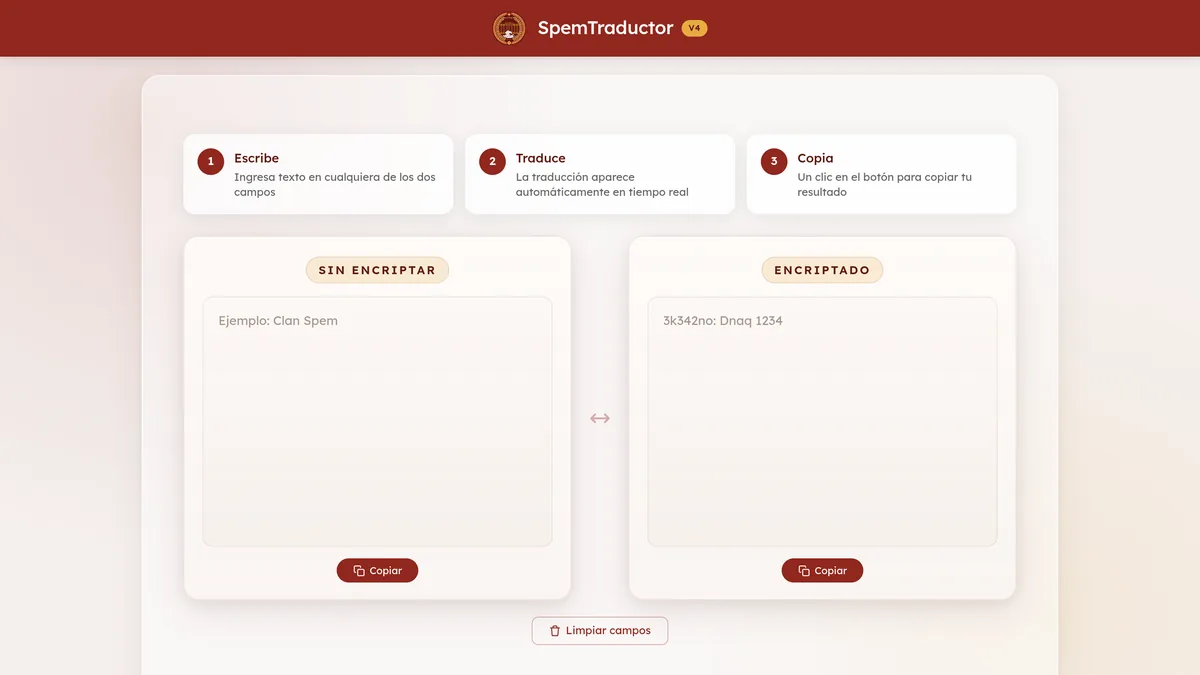
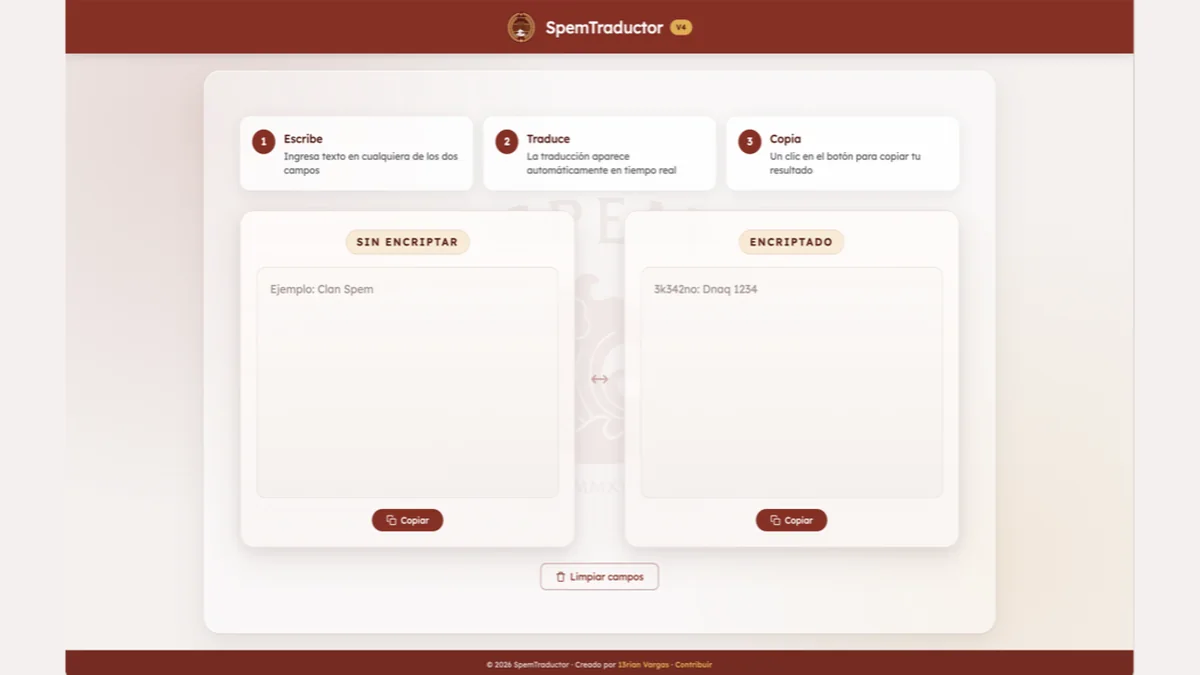
fix: apply design review feedback
Projects
- covers are real previews again: each repo's own portfolio-cover.png where
  it ships one, a live screenshot otherwise, and AMODEL uses the
  model_comparison figure from its own repo
- KApp gets a three-phone composition built from assets/screenshots, since
  it is a mobile app and a desktop shot said nothing about it
- cards laid out with centred flex, so 5 projects wrap 3 + 2 instead of the
  4 + 1 the full-width "featured" card was forcing
- order is KApp, AMODEL, K-Forge, SpemTraductor, Portfolio
- every stack is described at the same depth; AMODEL now lists the infra it
  actually ran on (Docker, Linux CLI, VPS, Tailscale)
- Kotlin and Swift were falling back to the Java icon
- icons added for Vercel, Maven, NumPy, SciPy, pandas, Matplotlib, pytest,
  Tailscale, VPS and SSH — no chip renders bare now
- the long "video" label no longer overlaps the GitHub button; it is short
  and carries a YouTube mark

Home
- intro rewritten as an introduction rather than a stack dump
- card back: QR is large and centred, and the facts read as label/value rows
  with no emoji
- "AUTHORIZED PERSONNEL" tested as confusing, replaced with the site domain
- hover lightens the amber instead of darkening it
- nav pill was measured before the webfont swapped in, so it sat off to the
  side; it re-measures on fonts.ready

About
- portrait is a circle at native resolution; the 3:4 frame forced a 1.3x
  upscale purely to hide the circular cut-out's transparent corners
[…]

diff --git a/src/i18n/ui.ts b/src/i18n/ui.ts
@@ -27,7 +27,7 @@ export const ui = {
         "home.name": "Brian Vargas",
         "home.role": "Java Backend Developer | Full Stack",
         "home.tagline":
-            "Java 21 and Spring Boot microservices behind an API Gateway, REST APIs and relational models that survive production — plus CCNA networking and CCST cybersecurity foundations. Open to backend, full stack, DevOps and security roles.",
+            "Hi, I'm Brian. I got hooked on figuring out how things work underneath, which is how I ended up in backend — building systems that still stand up when real people use them. Lately I've been going deep on cybersecurity and cloud. I'm looking for a team where there's always something left to learn.",
         "home.ctaProjects": "View projects",
         "home.ctaCV": "Download CV",
         "home.scrollHint": "Scroll",
@@ -38,7 +38,7 @@ export const ui = {
         "home.workModeValue": "On-site / Remote",
         "home.badgeText": "VERIFIED",
         "home.issueDate": "Issued: 2026",
-        "home.securityText": "AUTHORIZED PERSONNEL",
+        "home.securityText": "13rian-vargas.vercel.app",
         "home.qrInstruction": "Scan this QR to share this portfolio",
         "home.shareQR": "Share",
         "home.downloadQR": "Download",
@@ -56,6 +56,8 @@ export const ui = {
         "aboutme.description":
             "I'm a software developer with 3+ years building applications, focused on Java and Spring Boot on the backend and full stack capable with Angular and TypeScript. I design REST APIs, model relational databases and deploy with Docker. My profile is hybrid: I bring networking (CCNA) and cybersecurity (CCST) foundations alongside cloud (Google Cloud).",
         "aboutme.downloadCV": "Download CV",
+        "aboutme.cvEs": "Spanish",
+        "aboutme.cvEn": "English",
         "aboutme.softSkills": "Soft Skills",
         "aboutme.experience": "Years of Experience",
         "aboutme.technologies": "Technologies",
@@ -210,7 +212,7 @@ export const ui = {
         "home.name": "Brian Vargas",
         "home.role": "Desarrollador Java Backend | Full Stack",
         "home.tagline":
-            "Microservicios en Java 21 y Spring Boot tras un API Gateway, APIs REST y modelos relacionales que aguantan producción — más fundamentos de redes (CCNA) y ciberseguridad (CCST). Abierto a backend, full stack, DevOps y seguridad.",
+            "Hola, soy Brian. Me picó la curiosidad de entender cómo funcionan las cosas por dentro y terminé en el backend — armando sistemas que siguen en pie cuando la gente de verdad los usa. Últimamente me metí de lleno en ciberseguridad y cloud. Busco un equipo donde siempre quede algo por aprender.",
         "home.ctaProjects": "Ver proyectos",
         "home.ctaCV": "Descargar CV",
         "home.scrollHint": "Desliza",
@@ -221,7 +223,7 @@ export const ui = {
         "home.workModeValue": "En sitio / Remoto",
         "home.badgeText": "VERIFICADO",
         "home.issueDate": "Emitido: 2026",
-        "home.securityText": "PERSONAL AUTORIZADO",
+        "home.securityText": "13rian-vargas.vercel.app",
         "home.qrInstruction": "Escanea este QR para compartir este portafolio",
         "home.shareQR": "Compartir",
         "home.downloadQR": "Descargar",
@@ -239,6 +241,8 @@ export const ui = {
         "aboutme.description":
             "Soy desarrollador de software con más de 3 años construyendo aplicaciones, enfocado en Java y Spring Boot en el backend y con capacidad full stack en Angular y TypeScript. Diseño APIs REST, modelo bases de datos relacionales y despliego con Docker. Mi perfil es híbrido: sumo fundamentos de redes (CCNA) y ciberseguridad (CCST) junto a cloud (Google Cloud).",
         "aboutme.downloadCV": "Descargar CV",
+        "aboutme.cvEs": "Español",
+        "aboutme.cvEn": "English",
         "aboutme.softSkills": "Habilidades Blandas",
         "aboutme.experience": "Años de Experiencia",
         "aboutme.technologies": "Tecnologías",
@@ -393,7 +397,7 @@ export const ui = {
         "home.name": "Brian Vargas",
         "home.role": "Développeur Java Backend | Full Stack",
         "home.tagline":
-            "Microservices Java 21 et Spring Boot derrière une API Gateway, API REST et modèles relationnels taillés pour la production — avec des bases en réseaux (CCNA) et cybersécurité (CCST). Ouvert au backend, full stack, DevOps et sécurité.",
+            "Bonjour, je suis Brian. J'ai attrapé le virus de comprendre comment les choses fonctionnent en dessous, et j'ai fini dans le backend — à construire des systèmes qui tiennent quand de vraies personnes s'en servent. Depuis peu je creuse la cybersécurité et le cloud. Je cherche une équipe où il reste toujours quelque chose à apprendre.",
         "home.ctaProjects": "Voir les projets",
         "home.ctaCV": "Télécharger le CV",
         "home.scrollHint": "Défiler",
@@ -404,7 +408,7 @@ export const ui = {
         "home.workModeValue": "Présentiel / Télétravail",
         "home.badgeText": "VÉRIFIÉ",
         "home.issueDate": "Délivré : 2026",
-        "home.securityText": "PERSONNEL AUTORISÉ",
+        "home.securityText": "13rian-vargas.vercel.app",
         "home.qrInstruction": "Scannez ce QR pour partager ce portfolio",
         "home.shareQR": "Partager",
         "home.downloadQR": "Télécharger",
@@ -422,6 +426,8 @@ export const ui = {
         "aboutme.description":
             "Je suis développeur logiciel avec plus de 3 ans à construire des applications, axé sur Java et Spring Boot côté backend et capable en full stack avec Angular et TypeScript. Je conçois des API REST, modélise des bases de données relationnelles et déploie avec Docker. Mon profil est hybride : j'apporte des bases en réseaux (CCNA) et cybersécurité (CCST) ainsi qu'en cloud (Google Cloud).",
         "aboutme.downloadCV": "Télécharger le CV",
+        "aboutme.cvEs": "Espagnol",
+        "aboutme.cvEn": "Anglais",
         "aboutme.softSkills": "Compétences humaines",
         "aboutme.experience": "Années d'expérience",
         "aboutme.technologies": "Technologies",
@@ -576,7 +582,7 @@ export const ui = {
         "home.name": "Brian Vargas",
         "home.role": "Desenvolvedor Java Backend | Full Stack",
         "home.tagline":
-            "Microsserviços em Java 21 e Spring Boot atrás de um API Gateway, APIs REST e modelos relacionais que aguentam produção — mais fundamentos de redes (CCNA) e cibersegurança (CCST). Aberto a backend, full stack, DevOps e segurança.",
+            "Oi, sou o Brian. Peguei o vício de entender como as coisas funcionam por dentro e acabei no backend — construindo sistemas que continuam de pé quando as pessoas de verdade usam. Ultimamente mergulhei em cibersegurança e cloud. Procuro um time onde sempre sobre algo para aprender.",
         "home.ctaProjects": "Ver projetos",
         "home.ctaCV": "Baixar CV",
         "home.scrollHint": "Role",
@@ -587,7 +593,7 @@ export const ui = {
         "home.workModeValue": "Presencial / Remoto",
         "home.badgeText": "VERIFICADO",
         "home.issueDate": "Emitido: 2026",
-        "home.securityText": "PESSOAL AUTORIZADO",
+        "home.securityText": "13rian-vargas.vercel.app",
         "home.qrInstruction": "Escaneie este QR para compartilhar este portfólio",
         "home.shareQR": "Compartilhar",
         "home.downloadQR": "Baixar",
@@ -605,6 +611,8 @@ export const ui = {
         "aboutme.description":
             "Sou desenvolvedor de software com mais de 3 anos construindo aplicações, focado em Java e Spring Boot no backend e com capacidade full stack em Angular e TypeScript. Projeto APIs REST, modelo bancos de dados relacionais e faço deploy com Docker. Meu perfil é híbrido: somo fundamentos de redes (CCNA) e cibersegurança (CCST) junto a cloud (Google Cloud).",
         "aboutme.downloadCV": "Baixar CV",
+        "aboutme.cvEs": "Espanhol",
+        "aboutme.cvEn": "Inglês",
         "aboutme.softSkills": "Habilidades Interpessoais",
         "aboutme.experience": "Anos de Experiência",
         "aboutme.technologies": "Tecnologias",

diff --git a/src/styles/global.css b/src/styles/global.css
@@ -256,11 +256,10 @@ select {
  * the fixed header, jumping to a section left the heading stranded near the
  * bottom of the viewport. */
 .section-shell {
-  padding-block: var(--space-lg) var(--space-xl);
+  padding-block: var(--space-md) var(--space-xl);
   padding-inline: var(--space-sm);
   position: relative;
   z-index: 1;
-  scroll-margin-top: var(--header-height);
 }
 
 .section-container {
